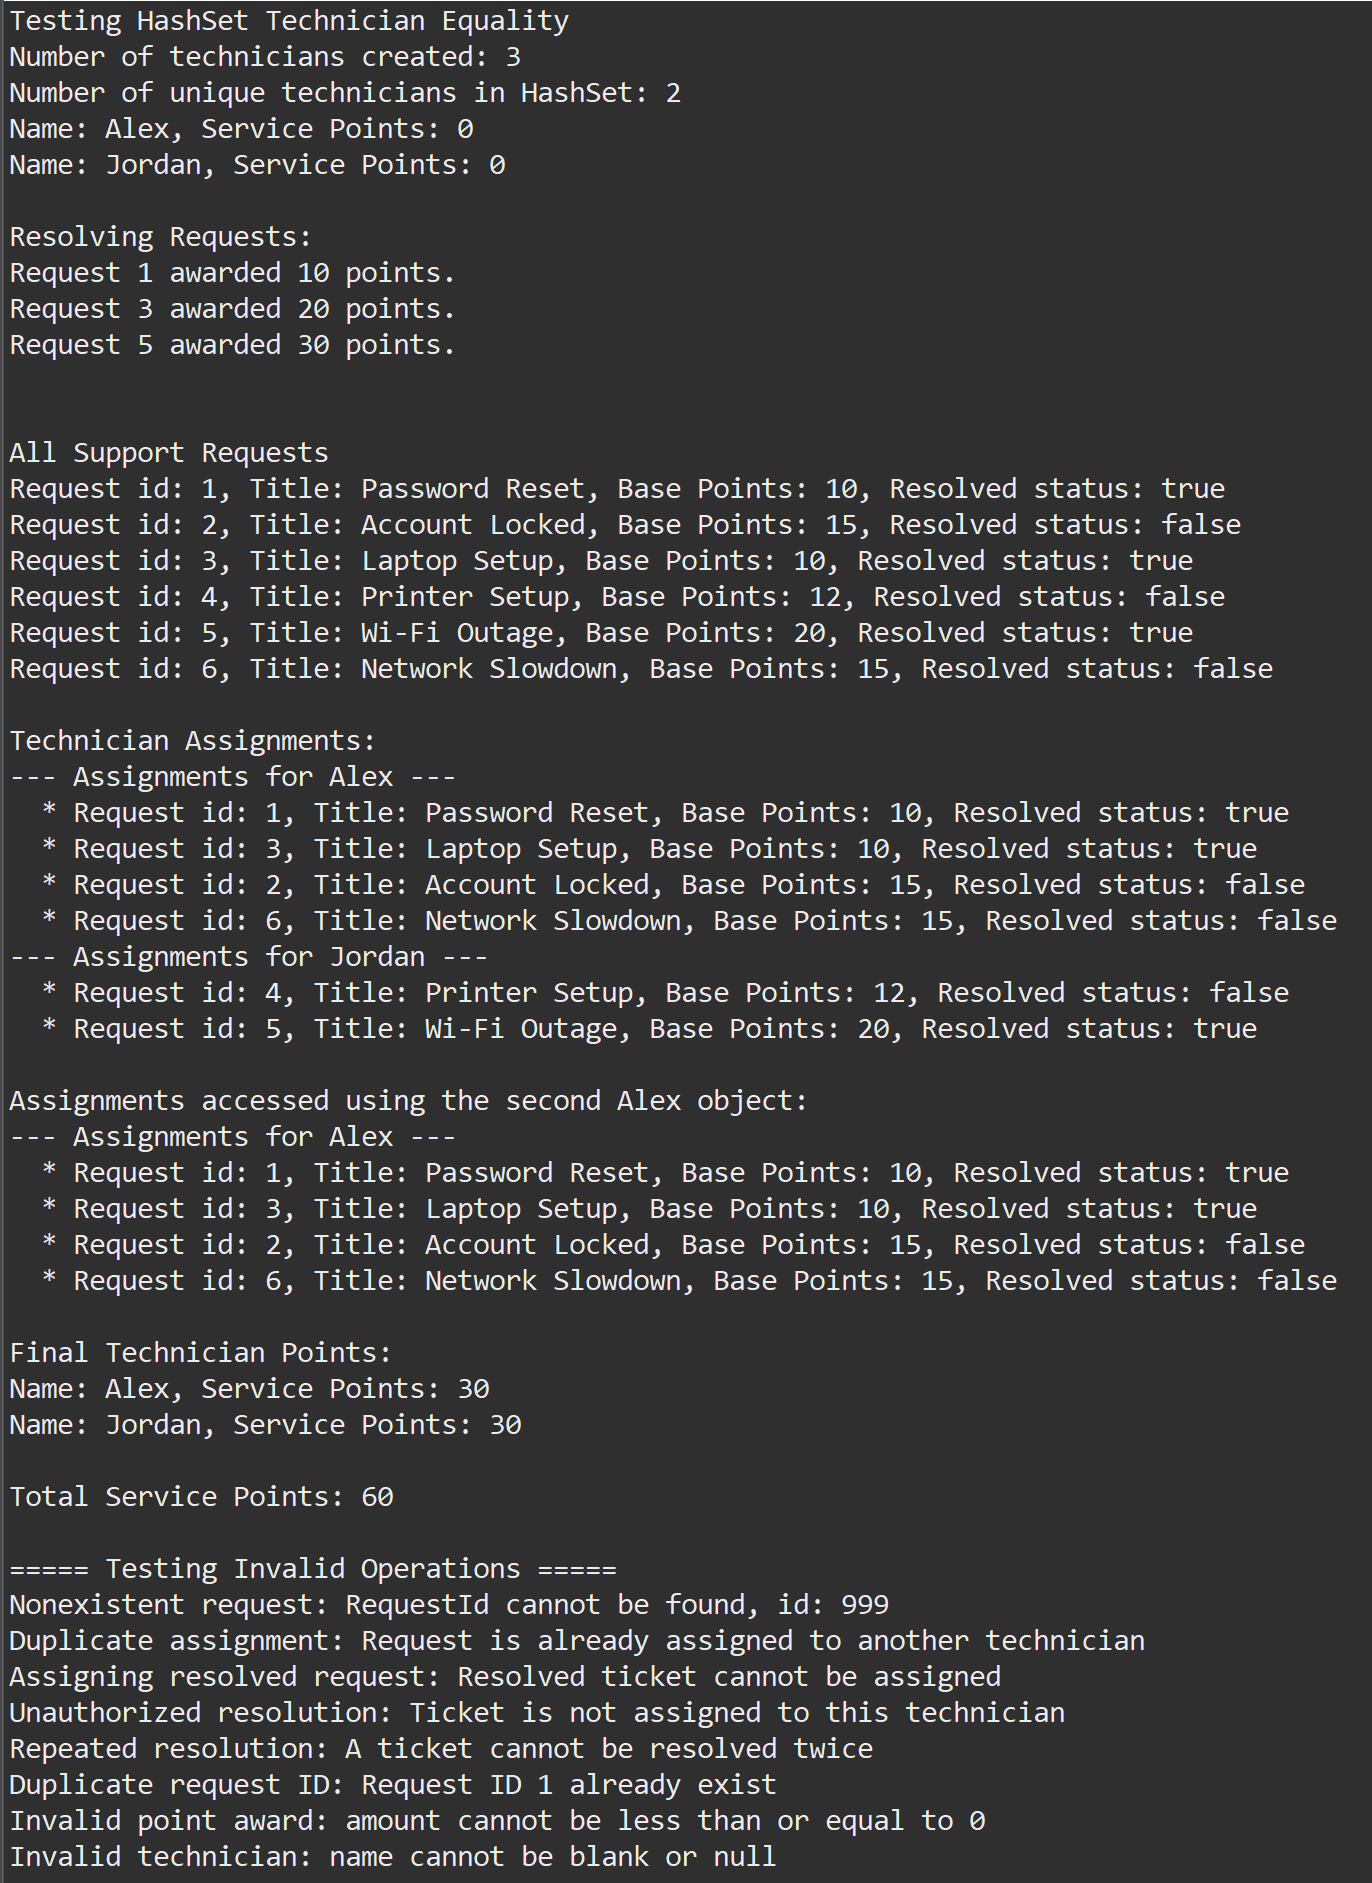
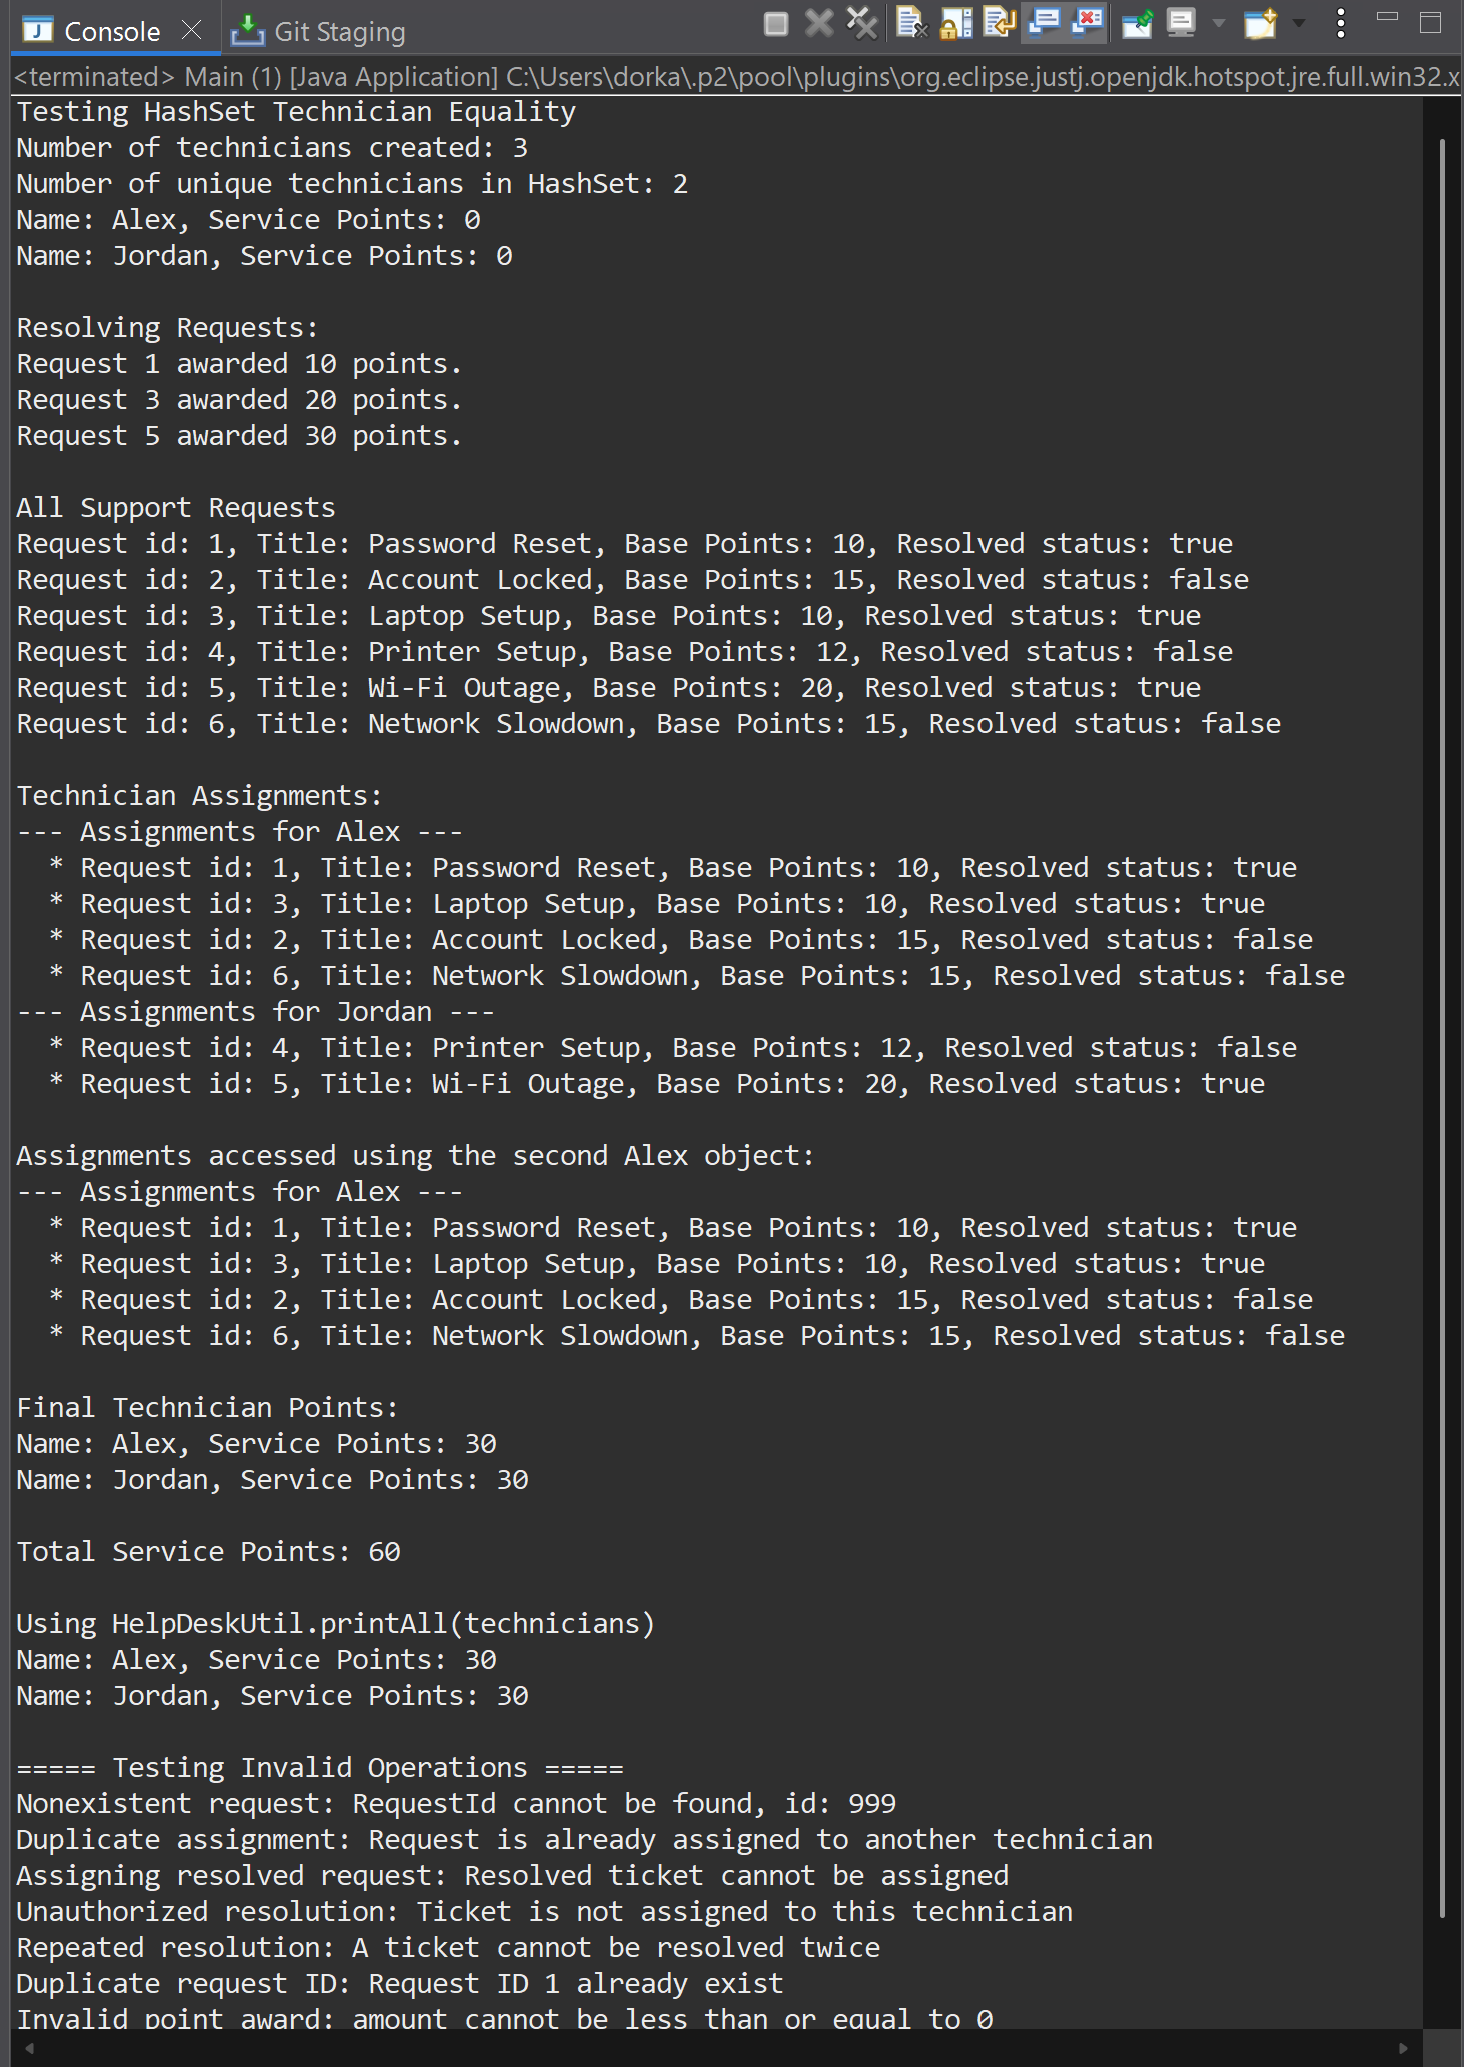
Dimitri Code check 3 Added a use of HelpDeskUtil.printAll to meet assignment requirements Updated screenshot to reflect changes

Changed region(s): [[0.0, 0.0, 1.0, 1.0]]

diff --git a/src/edu/mu/cmpsc3330/assignment2/Main.java b/src/edu/mu/cmpsc3330/assignment2/Main.java
@@ -70,7 +70,7 @@ public class Main {
         System.out.println("Request 5 awarded " + helpDesk.resolveRequest(tech2, 5) + " points.");
 
         // Print all requests
-        System.out.println("\n");
+        System.out.println("");
         helpDesk.printAllRequests();
 
         // Print technician assignments
@@ -92,8 +92,10 @@ public class Main {
         technicians.add(tech1);
         technicians.add(tech2);
 
-        System.out.println("\nTotal Service Points: "
-            + HelpDeskUtil.sumPoints(technicians));
+        System.out.println("\nTotal Service Points: "+ HelpDeskUtil.sumPoints(technicians));
+        
+        System.out.println("\nUsing HelpDeskUtil.printAll(technicians)");
+        HelpDeskUtil.printAll(technicians);
 
         // Demonstrate exception handling
         System.out.println("\n===== Testing Invalid Operations =====");
